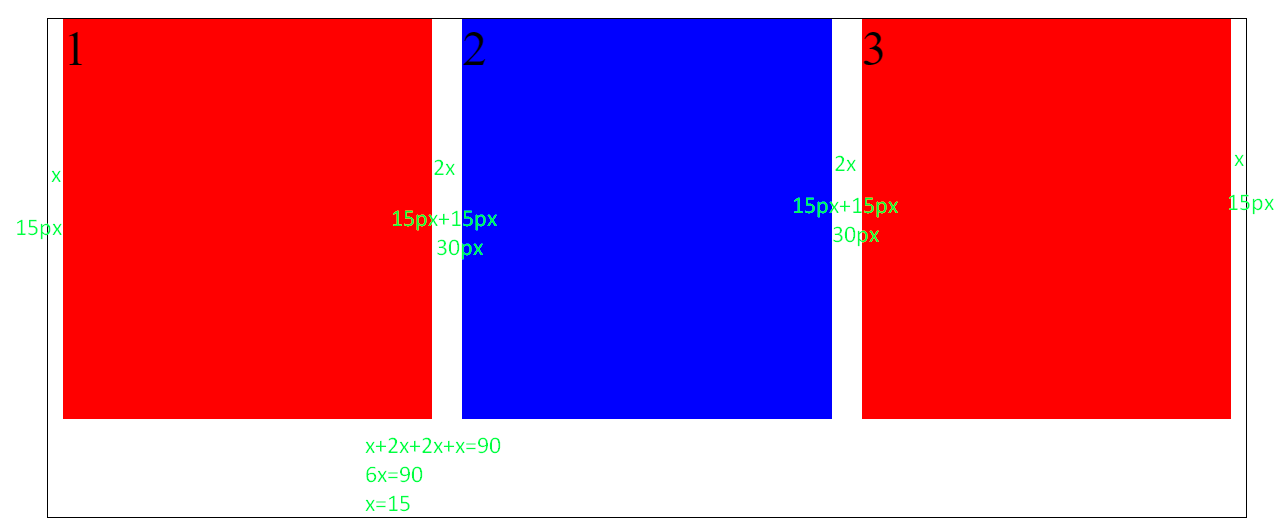
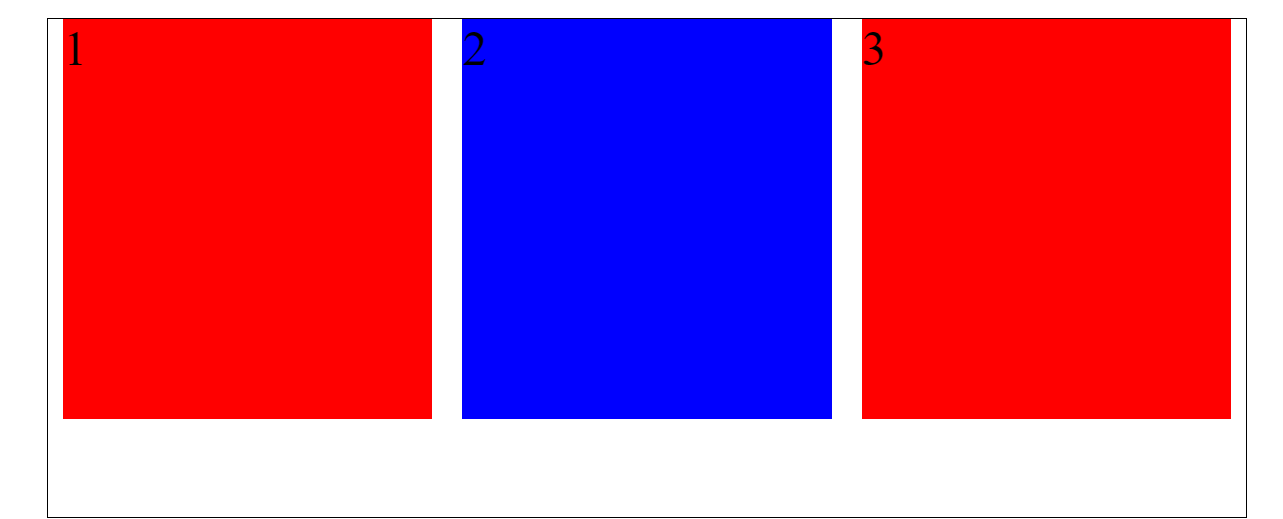
gfbhrtgbtrg

diff --git a/README.md b/README.md
@@ -556,6 +556,9 @@ https://github.com/xasiyevsamir/README.FRONT/assets/125192688/b6758617-faa5-4f4b
 <b>justify-content:space-evenly;</b>--bu kod ile biz elementler arasinda eyni px bosluqlar vere bilerik.Burada call(100%/3-30px) o demekdir her elementin width den 30px cix ve onu posluq kimi ver. sekilde tam olaraq izah edilib.
 <img src="image\image1\css105.png"alt="sekil silinib" title="Display anlayis"/><br/>
 <img src="image\image1\css106.png"alt="sekil silinib" title="Display anlayis"/><br/>
+<b>column-gap: 20px;</b>--bu kod ile biz elemente isdediyimiz olcude mesafe vere bilerik .Burada call(100%/3-40px\3) o demekdir ki 40px/3 e ne qeder qalirsa width den o qederini cix.Sekilden gorunduyu kimi 2 bosluq var hereside 20px ve umumilikde biz bu 40px/3 width den cixmaliyiq ki tam setre sigsin element.3 e ona gore boluruk ki 3 elementimiz var ve her element 40px/3 neticesini oz width den cixmalidir. sekilde tam olaraq izah edilib.
+<img src="image\image1\css107.png"alt="sekil silinib" title="Display anlayis"/><br/>
+<img src="image\image1\css108.png"alt="sekil silinib" title="Display anlayis"/><br/>
 </p>
 
 </details>
